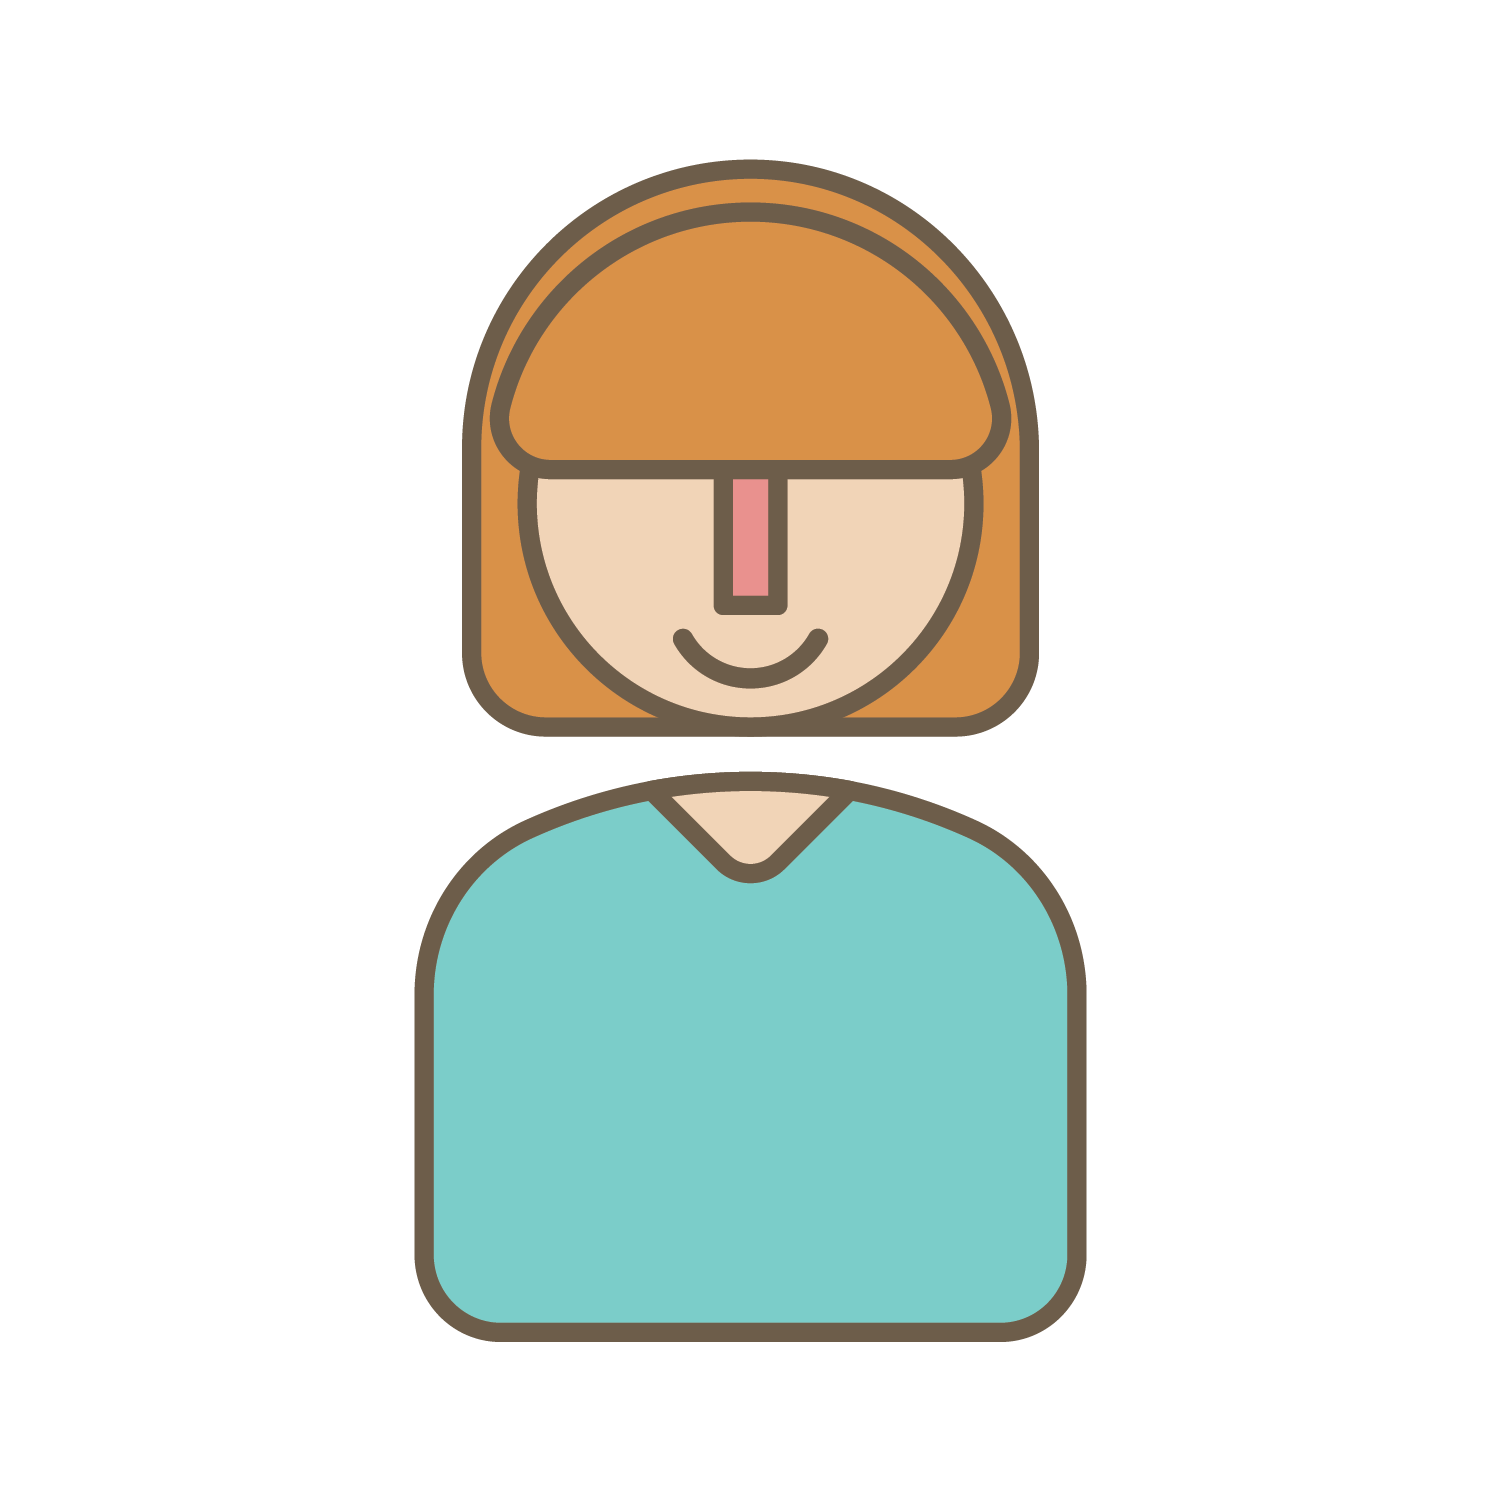
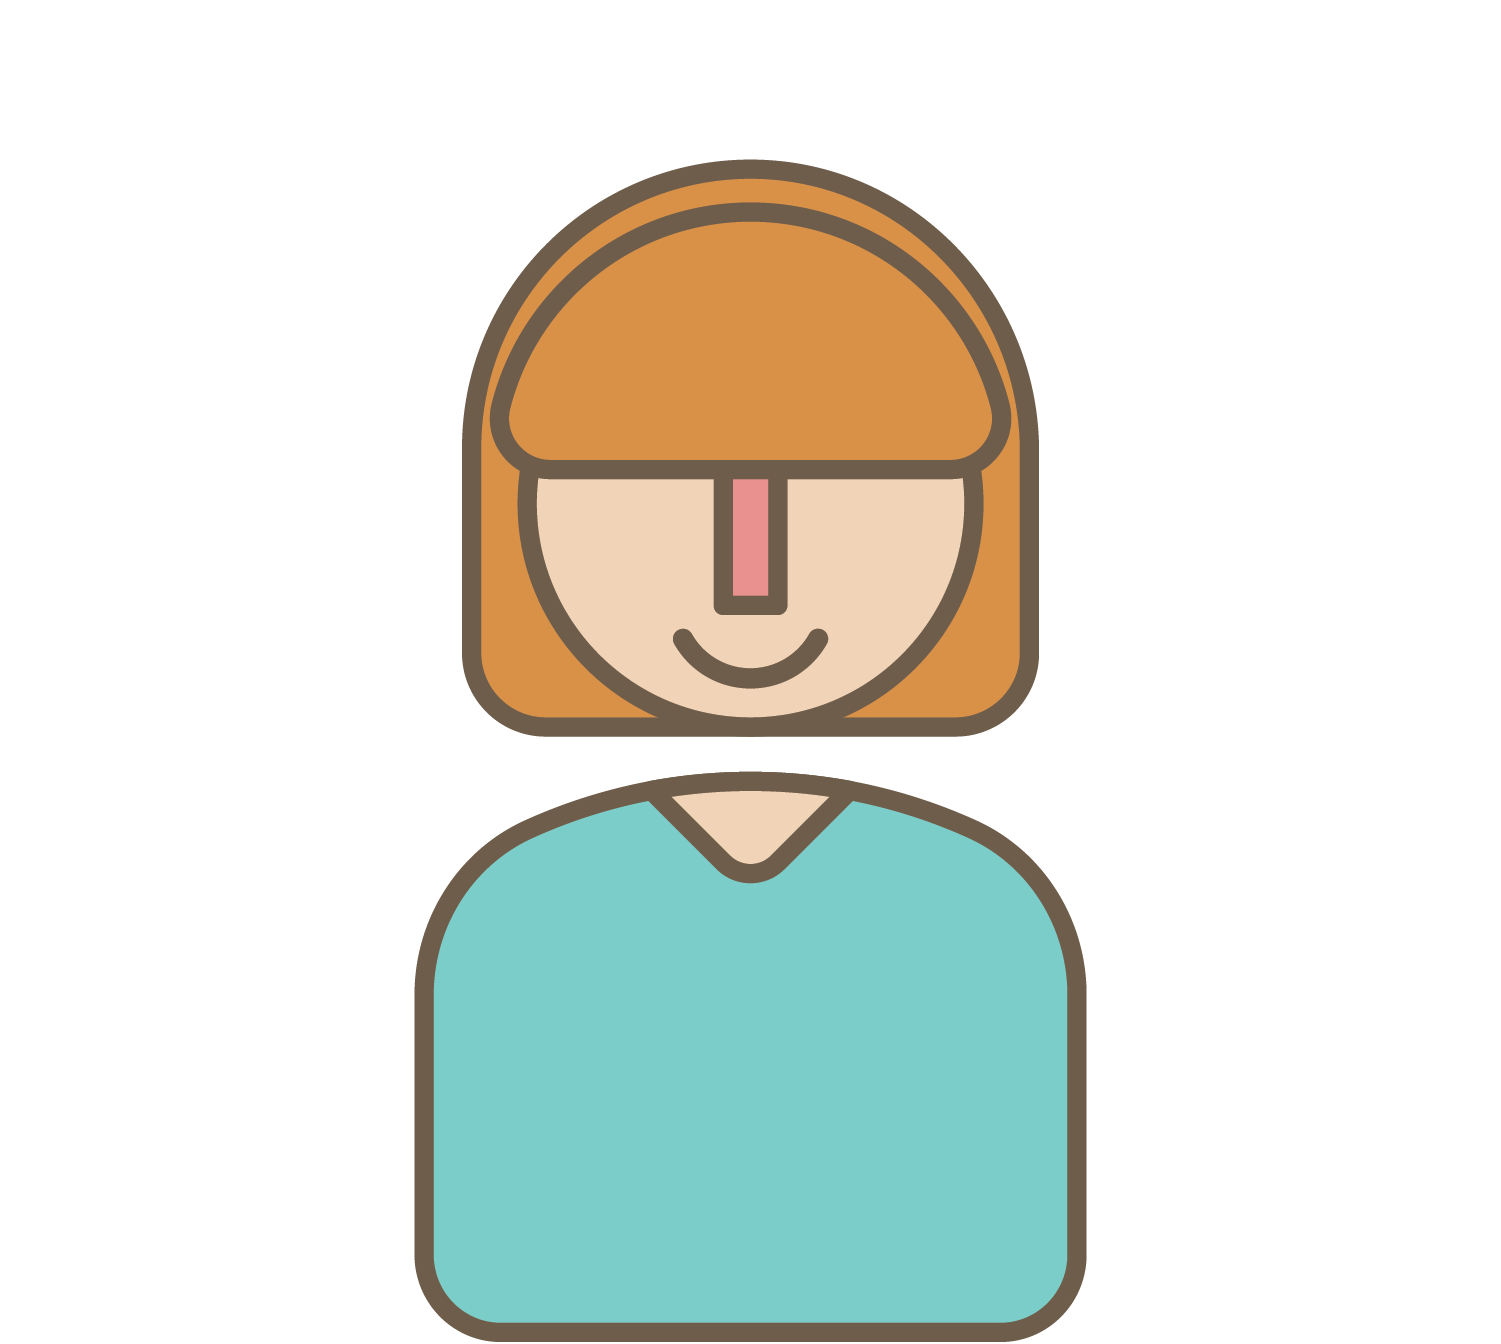
done

Changed region(s): [[0.2758, 0.0938, 0.7355, 0.7188], [0.2758, 0.8438, 0.7355, 1.0]]

diff --git a/main.js b/main.js
@@ -1,4 +1,5 @@
 var output = $('.na');
+var outputtwo = $('.nap');
 var input = $('#name').val();
 
 var cookie = Cookies.get('id');
@@ -37,7 +38,10 @@ if (cookie) {
 	  $('.mood02').hide();
 	  $('.mood03').hide();
 
-	  output.html('You have responded elated ' + cookieJson.e + ' times, happy ' + cookieJson.h + ' times, okay ' + cookieJson.o + ' times, sad ' + cookieJson.s + ' times, and angry ' + cookieJson.a + ' times since starting your journal. Please come back later to write a new entry!');
+    output.css("margin-top", "5%");
+    output.css("font-size", "1.5vw");
+
+	  output.html('Here is your overview ' + $('#name').val() + '</br></br><img class="ic" src="Images/avelated-01.png"> ' + cookieJson.e + ' times </br> <img class="ic" src="Images/avhappy-01.png"> ' + cookieJson.h + ' times </br> <img class="ic" src="Images/avokay-01.png"> ' + cookieJson.o + ' times </br> <img class="ic" src="Images/avsad-01.png"> ' + cookieJson.s + ' times </br> <img class="ic" src="Images/avangry-01.png"> ' + cookieJson.a + ' times </br></br> Please come back later to write a new entry!');
   }
 }
 
@@ -261,7 +265,10 @@ function el03(){
   $('#firsts').hide();
   $('#firsta').hide();
 
-  output.html('You have responded elated ' + (cookieJson.e + 1) + ' times, happy ' + cookieJson.h + ' times, okay ' + cookieJson.o + ' times, sad ' + cookieJson.s + ' times, and angry ' + cookieJson.a + ' times since starting your journal. Please come back later to write a new entry!');
+  output.css("margin-top", "5%");
+  output.css("font-size", "1.5vw");
+
+  output.html('Here is your overview ' + $('#name').val() + '</br></br><img class="ic" src="Images/avelated-01.png"> ' + (cookieJson.e + 1) + ' times </br> <img class="ic" src="Images/avhappy-01.png"> ' + cookieJson.h + ' times </br> <img class="ic" src="Images/avokay-01.png"> ' + cookieJson.o + ' times </br> <img class="ic" src="Images/avsad-01.png"> ' + cookieJson.s + ' times </br> <img class="ic" src="Images/avangry-01.png"> ' + cookieJson.a + ' times </br></br> Please come back later to write a new entry!');
 
   $('.mood01').hide();
   $('.mood02').hide();
@@ -280,7 +287,10 @@ function ha03(){
   $('#firsts').hide();
   $('#firsta').hide();
 
-  output.html('You have responded elated ' + cookieJson.e + ' times, happy ' + (cookieJson.h + 1) + ' times, okay ' + cookieJson.o + ' times, sad ' + cookieJson.s + ' times, and angry ' + cookieJson.a + ' times since starting your journal. Please come back later to write a new entry!');
+  output.css("margin-top", "5%");
+  output.css("font-size", "1.5vw");
+
+  output.html('Here is your overview ' + $('#name').val() + '</br></br><img class="ic" src="Images/avelated-01.png"> ' + cookieJson.e + ' times </br> <img class="ic" src="Images/avhappy-01.png"> ' + (cookieJson.h +1) + ' times </br> <img class="ic" src="Images/avokay-01.png"> ' + cookieJson.o + ' times </br> <img class="ic" src="Images/avsad-01.png"> ' + cookieJson.s + ' times </br> <img class="ic" src="Images/avangry-01.png"> ' + cookieJson.a + ' times </br></br> Please come back later to write a new entry!');
 
   $('.mood01').hide();
   $('.mood02').hide();
@@ -298,7 +308,10 @@ function ok03(){
   $('#firsts').hide();
   $('#firsta').hide();
 
-  output.html('You have responded elated ' + cookieJson.e + ' times, happy ' + cookieJson.h + ' times, okay ' + (cookieJson.o + 1) + ' times, sad ' + cookieJson.s + ' times, and angry ' + cookieJson.a + ' times since starting your journal. Please come back later to write a new entry!');
+  output.css("margin-top", "5%");
+  output.css("font-size", "1.5vw");
+
+  output.html('Here is your overview ' + $('#name').val() + '</br></br><img class="ic" src="Images/avelated-01.png"> ' + cookieJson.e + ' times </br> <img class="ic" src="Images/avhappy-01.png"> ' + cookieJson.h + ' times </br> <img class="ic" src="Images/avokay-01.png"> ' + (cookieJson.o + 1) + ' times </br> <img class="ic" src="Images/avsad-01.png"> ' + cookieJson.s + ' times </br> <img class="ic" src="Images/avangry-01.png"> ' + cookieJson.a  + ' times </br></br> Please come back later to write a new entry!');
 
   $('.mood01').hide();
   $('.mood02').hide();
@@ -316,7 +329,10 @@ function sa03(){
   $('#firsts').show();
   $('#firsta').hide();
 
-  output.html('You have responded elated ' + cookieJson.e + ' times, happy ' + cookieJson.h + ' times, okay ' + cookieJson.o + ' times, sad ' + (cookieJson.s + 1) + ' times, and angry ' + cookieJson.a + ' times since starting your journal. Please come back later to write a new entry!');
+  output.css("margin-top", "5%");
+  output.css("font-size", "1.5vw");
+
+  output.html('Here is your overview ' + $('#name').val() + '</br></br><img class="ic" src="Images/avelated-01.png"> ' + cookieJson.e + ' times </br> <img class="ic" src="Images/avhappy-01.png"> ' + cookieJson.h + ' times </br> <img class="ic" src="Images/avokay-01.png"> ' + cookieJson.o + ' times </br> <img class="ic" src="Images/avsad-01.png"> ' + (cookieJson.s + 1) + ' times </br> <img class="ic" src="Images/avangry-01.png"> ' + cookieJson.a  + ' times </br></br> Please come back later to write a new entry!');
 
   $('.mood01').hide();
   $('.mood02').hide();
@@ -334,7 +350,10 @@ function an03(){
   $('#firsts').hide();
   $('#firsta').show();
 
-  output.html('You have responded elated ' + cookieJson.e + ' times, happy ' + cookieJson.h + ' times, okay ' + cookieJson.o + ' times, sad ' + cookieJson.s + ' times, and angry ' + (cookieJson.a + 1) + ' times since starting your journal. Please come back later to write a new entry!');
+  output.css("margin-top", "5%");
+  output.css("font-size", "1.5vw");
+
+  outputtwo.html('Here is your overview ' + $('#name').val() + '</br></br><img class="ic" src="Images/avelated-01.png"> ' + cookieJson.e + ' times </br> <img class="ic" src="Images/avhappy-01.png"> ' + cookieJson.h + ' times </br> <img class="ic" src="Images/avokay-01.png"> ' + cookieJson.o + ' times </br> <img class="ic" src="Images/avsad-01.png"> ' + cookieJson.s + ' times </br> <img class="ic" src="Images/avangry-01.png"> ' + (cookieJson.a + 1) + ' times </br></br> Please come back later to write a new entry!');
 
   $('.mood01').hide();
   $('.mood02').hide();

diff --git a/mystyle.css b/mystyle.css
@@ -93,7 +93,7 @@ i {
 .avatarm{
   width:45vw;
   left:27%;
-  bottom:-10rem;
+  bottom:-4.8rem;
   position:absolute;
   display: none;
 }
@@ -151,160 +151,8 @@ button:hover {
   background: #D89047;
 }
 
-}
-
-
-@media (min-width: 1918px) and (max-width: 1920px) {
-
-body{
-  font-family: helvetica;
-  font-size: 2vw;
-}
-
-h1{
-  text-align: center;
-  font-size: 3vw;
-  margin-top:20%;
-  width:90%;
-  margin-left: 5vw;
-}
-
-.everything{
-  width: 100%;
-  height: 100%;
-  margin: 0 auto;
-  overflow: hidden;
-  position: absolute;
-}
-
-/* Start Page */
-
-.avatars{
-  width: 15%;
-  margin-left: 10%;
-  transition: opacity 0.5s;
-  cursor: pointer;
-  display: none;
-}
-
-#second, #third, #fourth {
-  margin-left: 5%;
-}
-
-.avatargrp{
-  width: 80%;
-  height:20%;
-  margin: auto;
-  position: relative;
-  bottom:-1000px;
-}
-
-#name{
-  background-color: transparent;
-  border-style: solid;
-  border-width: 0px 0px 2px 0px;
-  border-color: black;
-  outline:none;
-  width: 24vw;
-  margin-left: 36.5%;
-  margin-top:3%;
-  font-size: 1.6vw;
-}
-
-#myButton{
-  outline: none;
-  border:none;
-  background: white;
-  cursor: pointer;
-}
-
-i {
-    border: solid black;
-    border-width: 0 0.5vw 0.5vw 0;
-    display: inline-block;
-    padding: 0.5vw;
-}
-
-.right {
-    transform: rotate(-45deg);
-    -webkit-transform: rotate(-45deg);
-}
-
-.avatargrp:hover > .avatars {
-  opacity: 0.5;
-}
-
-.avatargrp:hover > .avatars:hover {
-  opacity: 1.0;
-}
-
-.avatar{
-  width:35vw;
-  left:27%;
-  bottom:-1000px;
-  position:absolute;
-  display: none;
-}
-
-.avatarm{
-  width:35vw;
-  left:27%;
-  bottom:-10rem;
-  position:absolute;
-  display: none;
-}
-
-.slider{
-  position: absolute;
-  margin-left: 35%;
-  width: 24vw;
-  display: none;
-  outline:none;
-  border-radius: 5px;
-  -webkit-appearance: none;
-  background-color: black;
-}
-
-.slider::-webkit-slider-thumb{
-  cursor:grab;
-}
-
-.slider::-webkit-slider-thumb:active{
-  cursor:grabbing;
-}
-
-/* mood */
-
-.mood01, .mood02, .mood03,.mood01, .mood002, .mood003,.mood001, .mood002, .mood003, .mood0001, .mood0002, .mood0003, .mood00001, .mood00002, .mood00003{
-  position: absolute;
-  top:57%;
-  left:62%;
-  width: 130px;
-  height: 40px;
-  text-align: center;
-  display:none;
-}
-
-.elated, .happy, .okay, .sad, .angry {
-  outline:none;
-  height: 40px;
-  text-align: center;
-  width: 130px;
-  border-radius:40px;
-  background: #fff;
-  border: 3px solid #D89047;
-  color:#D89047;
-  letter-spacing:1px;
-  text-shadow:0;
-  cursor: pointer;
-  transition: all 0.25s ease;
-  display: inline-block;
-  margin-bottom:20px;
-}
-
-button:hover {
-  color:white;
-  background: #D89047;
+.ic{
+  width:8%;
 }
 
 }

diff --git a/index.html b/index.html
@@ -11,6 +11,7 @@
     <div class="everything">
       <div id="container">
         <h1 class="na">What's your name?</h1>
+        <p class="nap"></p>
         <input type="text" id="name" value="" placeholder="Enter your name...">
         <button id="myButton" onclick="answer()"><i class="right"></i></button>
       </div>
